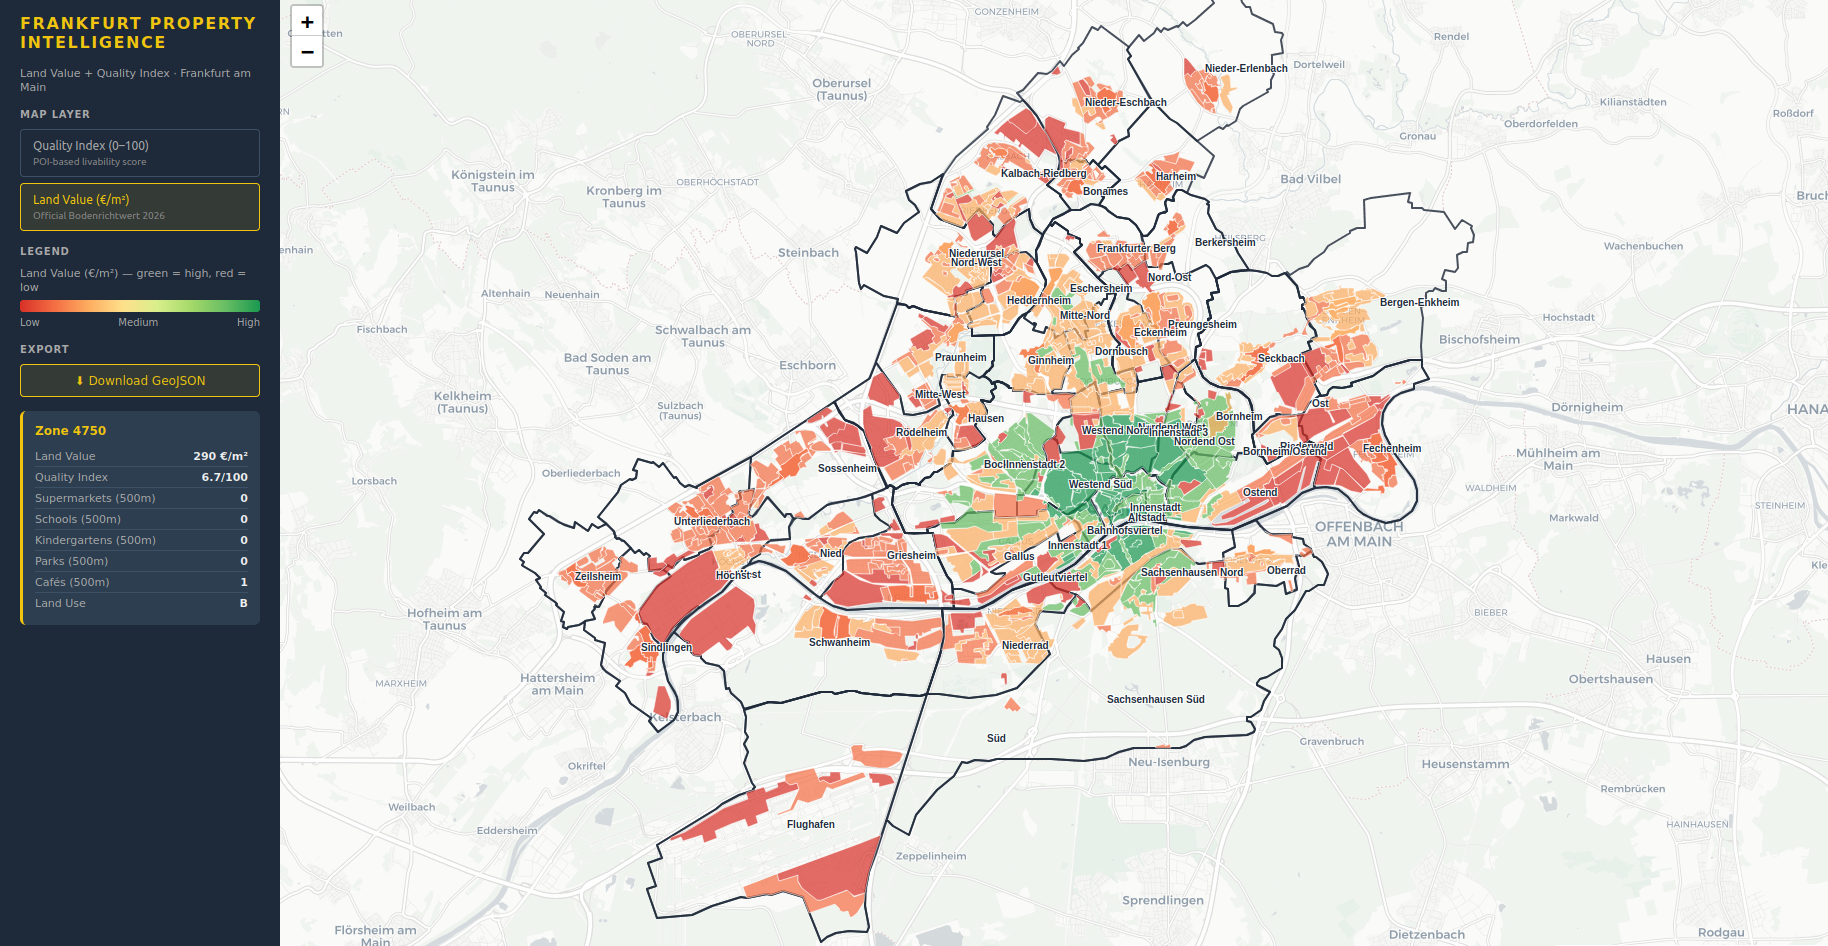
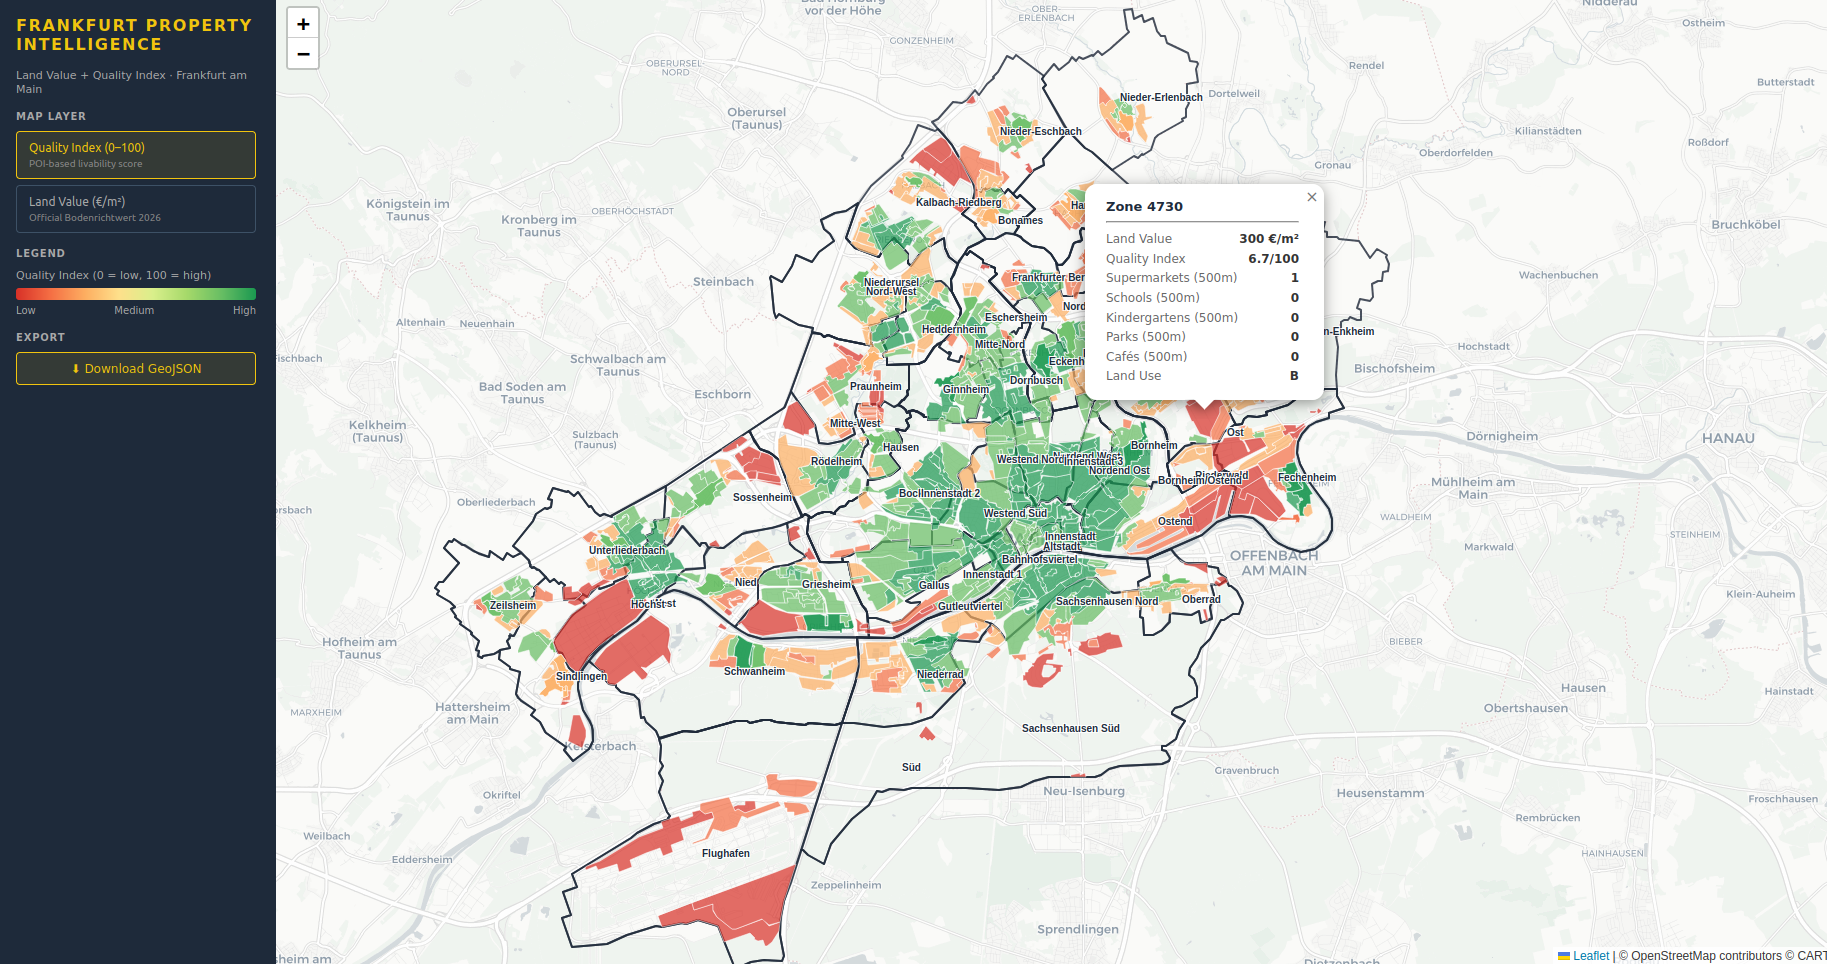
fix: expand BBOX to include northern districts, remove Bauland filter, add load_stadtteile

diff --git a/backend/etl/load_stadtteile.py b/backend/etl/load_stadtteile.py
@@ -1,0 +1,39 @@
+"""
+ETL Pipeline: Stadtteile Frankfurt → PostGIS
+Lädt Verwaltungsgrenzen via osmnx von OpenStreetMap.
+"""
+
+import osmnx as ox
+from sqlalchemy import text
+from backend.database import engine
+
+def load_stadtteile():
+    print("[1/2] Lade Stadtteile Frankfurt via osmnx ...")
+    stadtteile = ox.features_from_place(
+        "Frankfurt am Main, Germany",
+        tags={"boundary": "administrative", "admin_level": "9"}
+    )
+    stadtteile = stadtteile.reset_index()
+    stadtteile = stadtteile[
+        stadtteile.geometry.geom_type.isin(["Polygon", "MultiPolygon"])
+    ]
+    stadtteile = stadtteile[["name", "geometry"]].dropna(subset=["name"])
+    stadtteile = stadtteile.set_crs("EPSG:4326")
+    print(f"      → {len(stadtteile)} Stadtteile gefunden")
+
+    print("[2/2] Speichere in Supabase ...")
+    stadtteile.to_postgis(
+        name="stadtteile",
+        con=engine,
+        if_exists="replace",
+        index=False,
+    )
+    with engine.connect() as conn:
+        conn.execute(text(
+            "CREATE INDEX IF NOT EXISTS stadtteile_geom_idx ON stadtteile USING GIST(geometry);"
+        ))
+        conn.commit()
+    print(f"✓ Fertig — {len(stadtteile)} Stadtteile geladen.")
+
+if __name__ == "__main__":
+    load_stadtteile()

diff --git a/backend/etl/calculate_index.py b/backend/etl/calculate_index.py
@@ -21,7 +21,7 @@ RADIUS = 500  # Meter
 def calculate_index():
     print("[1/4] Lade Bodenrichtwerte aus Supabase ...")
     brw = gpd.read_postgis(
-        "SELECT * FROM bodenrichtwerte WHERE entwicklungszustand = 'B'",
+        "SELECT * FROM bodenrichtwerte",
         con=engine,
         geom_col="geometry"
     )

diff --git a/backend/etl/load_bodenrichtwerte.py b/backend/etl/load_bodenrichtwerte.py
@@ -10,7 +10,7 @@ from io import BytesIO
 from backend.database import engine
 
 WFS_URL = "https://www.geoportal.hessen.de/mapbender/php/wfs.php?INSPIRE=1&FEATURETYPE_ID=5721&SERVICE=WFS&VERSION=2.0.0"
-FRANKFURT_BBOX = (461000, 5541000, 498000, 5570000)  # UTM 25832
+FRANKFURT_BBOX = (461000, 5541000, 498000, 5584000)  # UTM 25832
 
 def load_bodenrichtwerte():
     print("[1/3] Lade Bodenrichtwerte vom WFS Hessen ...")